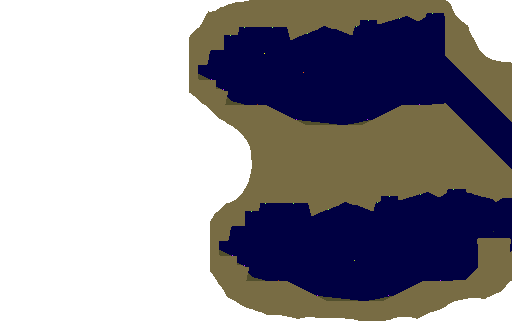
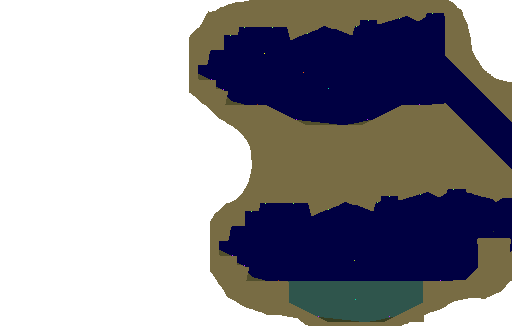
wood shelf, powder space, temp fish tank, multipart exit detectors

Changed region(s): [[0.5625, 0.8589, 0.8438, 1.0], [0.9062, 0.1227, 1.0, 0.2454], [0.875, 0.0, 0.9062, 0.0613]]

diff --git a/notes.md b/notes.md
@@ -1,14 +1,12 @@
 - double lab spawn - added logging
 - remote biomes
   - breakage problems
-  - position based seeds?
   - key design
-    - no sprite version for altars
-    - cauldron symbol?
-    - spawn rates
   - remote lab design
-    - powder mixing space
-    - wood shelves
+    - x powder mixing space - testing
+    - x wood shelves
+    - fish tank?
+- smoking torch
 - multi-step challenges?
 - progression tracking - herrings that can vs. can't react
 - grand alchemy labs
